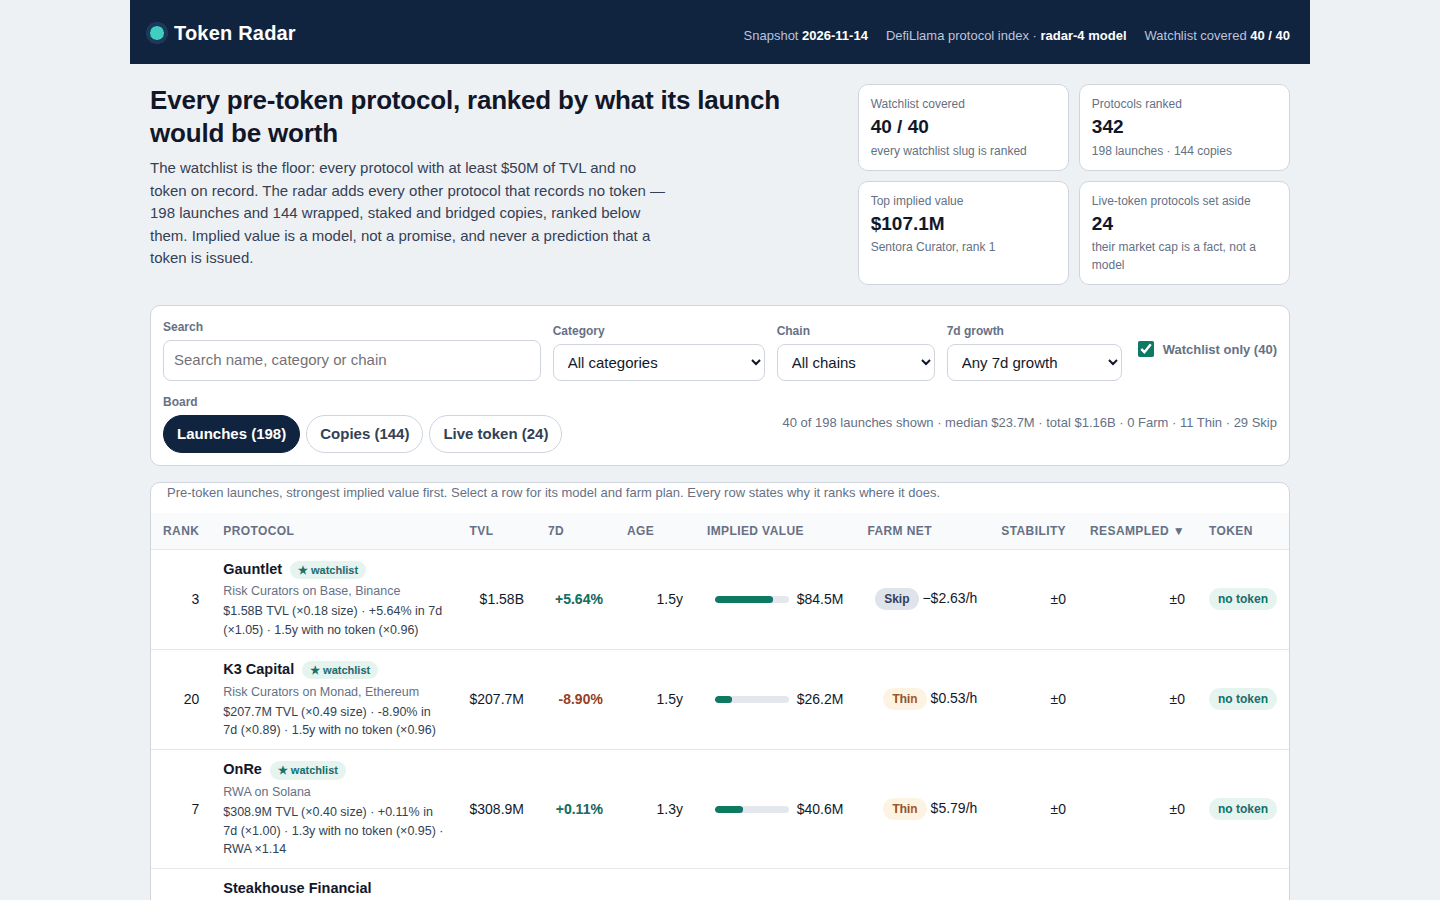
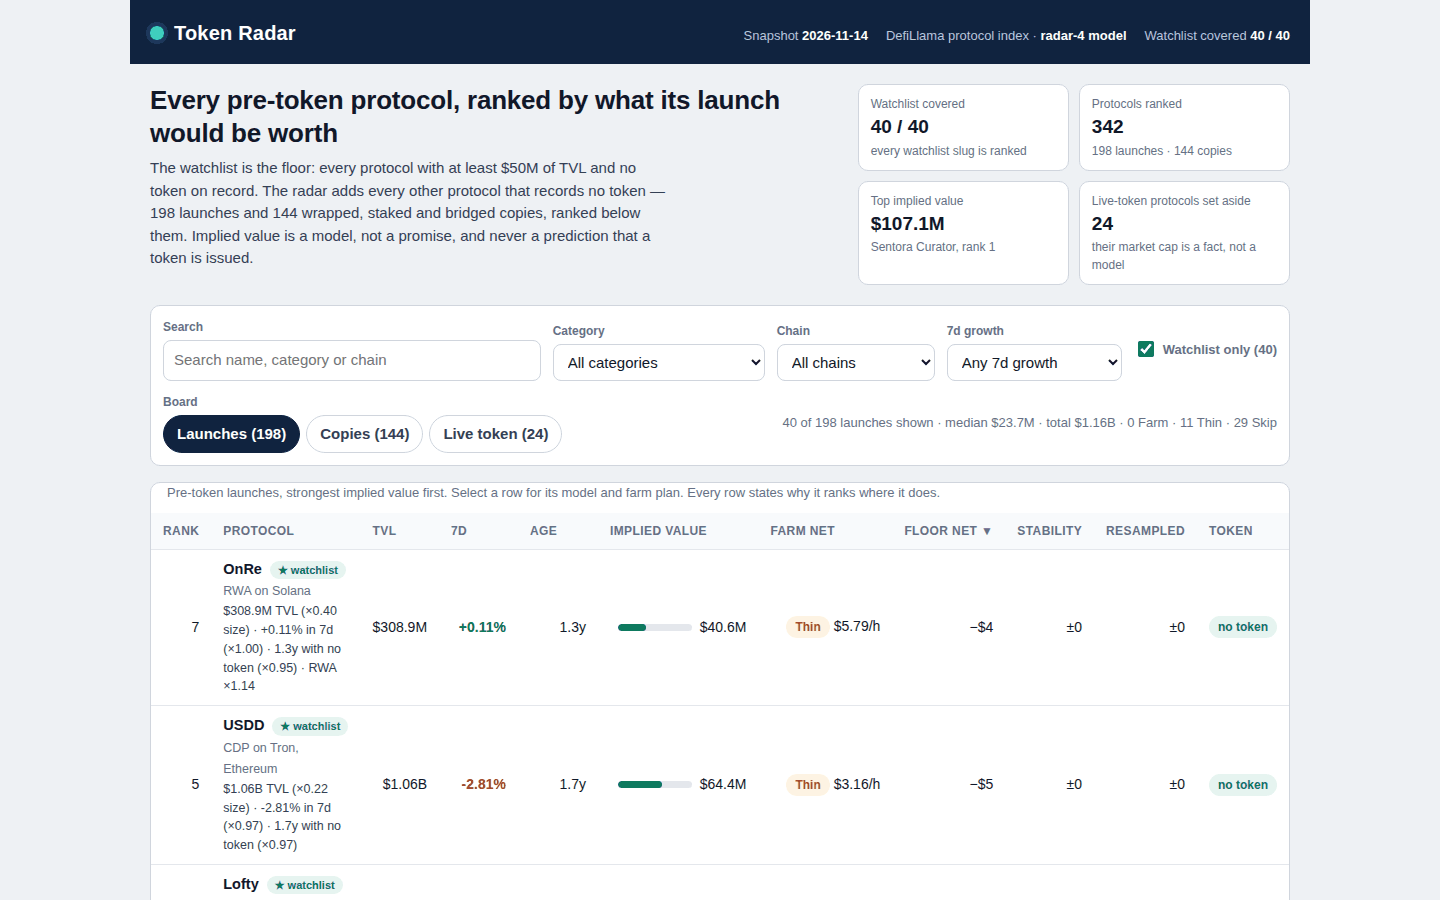
Quality round 9: sub-dollar farm gross prints to the cent, sortable Floor net column
- step 8 gross was 'about $0' on 142 rows (exact share $0.04-$0.48,
  median $0.15) and '$1' on 2 more (exact $0.54/$0.62, rounded up) —
  the same defect round 8 fixed for the net, one line down. Display-only
  fix, same >=$1 whole / <$1 cents rule as floor/loss; arithmetic
  untouched, 200 other rows' text provably identical
- board gains a sortable Floor net column (farm_net_floor_usd per row,
  #sort=floor): the round-8 floor test visible in the table, not only in
  step 8 prose; 26 Farm verdicts that still pay at the low end sort first
- screenshot 2 now 1440x1440 (steps 1-7 + start of 8 visible), screenshot 3
  now watchlist sorted by floor
- 0 rank/implied diffs vs 402c58d; verdicts 76/41/81; gate 7/7;
  determinism 3 runs; tsc strict 0 errors; dossier 421,728 B

diff --git a/dashboard/app.js b/dashboard/app.js
@@ -71,6 +71,15 @@
     if (v === null || v === undefined || !isFinite(v)) return 'n/a';
     return (v < 0 ? '−$' : '$') + Math.abs(v).toFixed(2) + '/h';
   }
+  // Farm net at the low end of the likely range (implied × 0.27, same gas),
+  // signed: +$21 for a farm that still pays there, −$35 for one that does
+  // not. A whole-dollar figure when it is at least a dollar, cents when it
+  // is not — the same rule step 8 uses, so no floor ever reads as "$0".
+  function fmtFloorUsd(v) {
+    if (v === null || v === undefined || !isFinite(v)) return '—';
+    var a = Math.abs(v);
+    return (v < 0 ? '−$' : '+$') + (a >= 1 ? Math.round(a).toLocaleString('en-US') : a.toFixed(2));
+  }
   // The model in one function: TVL, seven-day growth, age with no token and the
   // category factor — nothing else. Value grows with the square root of TVL: the
   // snapshot's own live protocols trade at a shrinking share of TVL as they grow.
@@ -180,6 +189,10 @@
     // ranked on — the biggest launches are the worst farms, so this order is
     // genuinely different from the implied-value order.
     farm: function (r) { return r.farm_per_hour_usd === undefined ? -Infinity : r.farm_per_hour_usd; },
+    // Floor net: the farm's net at the low end of the likely range, the
+    // round-8 floor test as a sortable column instead of a sentence buried in
+    // step 8 — the 26 Farm verdicts that still pay there sort to the top.
+    floor: function (r) { return r.farm_net_floor_usd === null || r.farm_net_floor_usd === undefined ? -Infinity : r.farm_net_floor_usd; },
     // Resampled rank: the row's own median rank move across the 1,000 bootstrap
     // resamples of the live set. Negated, so the default direction (largest
     // first) shows the steadiest ranks first — the per-row half of the
@@ -355,6 +368,7 @@
           el('span', { class: 'verdict v-' + (r.farm_verdict || 'Skip').toLowerCase(), text: r.farm_verdict || 'Skip' }),
           ' ' + fmtPerHour(r.farm_per_hour_usd)
         ),
+        el('td', { class: 'num', title: 'Farm net at the low end of the likely range (implied × 0.27, same gas): the verdict the floor test leaves standing', text: fmtFloorUsd(r.farm_net_floor_usd) }),
         el('td', { class: 'num', title: 'Rank moves at most this many places when the size exponent runs 0.45–0.55', text: '±' + move }),
         el('td', { class: 'num', title: 'Median rank move across 1,000 resamples of the live set', text: (r.rank_boot_med === null || r.rank_boot_med === undefined) ? '—' : '±' + r.rank_boot_med }),
         el('td', null, el('span', { class: 'status ' + r.tier, text: r.tier === 'copy' ? 'copy' : 'no token' }))
@@ -376,6 +390,7 @@
             sortHeader('age', 'Age'),
             sortHeader('implied', 'Implied value'),
             sortHeader('farm', 'Farm net'),
+            sortHeader('floor', 'Floor net'),
             sortHeader('stable', 'Stability'),
             sortHeader('boot', 'Resampled'),
             el('th', { scope: 'col', text: 'Token' })

diff --git a/lib/model.ts b/lib/model.ts
@@ -1155,14 +1155,24 @@ export function farmSteps(p: SnapshotProtocol, age: number | null, implied?: num
   // the plan — a reader who only reads the steps still sees whether the farm pays.
   if (implied !== undefined) {
     const e = farmEconomics(p, age, implied, intervalLo);
-    const gross = `$${e.gross_usd.toLocaleString('en-US')}`;
+    // The gross is a quantity with units, not a point to round away: 142 rows
+    // hold a real sub-dollar share ($0.04–$0.48, median $0.15) that the
+    // whole-dollar round prints as "$0" — the same defect round 8 fixed for
+    // the net, one line down. A whole-dollar figure when it is at least a
+    // dollar, cents when it is not — the same rule the floor and the loss
+    // already use, so no verdict ever reads as holding "$0". Display only:
+    // gross_usd stays the rounded value the net, the verdict and the floor
+    // are computed from, and Math.round of the exact gross equals it on
+    // every row at $1 or above, so no other row's text changes.
+    const grossExact = (e.capital / Math.max(p.tvl_usd, 1)) * implied;
+    const gross = grossExact >= 1 ? `$${Math.round(grossExact).toLocaleString('en-US')}` : `$${grossExact.toFixed(2)}`;
     const gasText = `$${e.gas_total}`;
     // Small implied values print in full ($500), not as "$0K": copies sit below $2M.
     const impliedText = implied >= 1_000_000 ? tvlText(implied) : `$${implied.toLocaleString('en-US')}`;
     // A whole-dollar net that rounds to $0 is not a $0 loss: the unrounded
     // gross sits cents below the gas bill, so print the loss to the cent.
     const lossText = e.net_usd === 0
-      ? `$${(e.gas_total - (e.capital / Math.max(p.tvl_usd, 1)) * implied).toFixed(2)}`
+      ? `$${(e.gas_total - grossExact).toFixed(2)}`
       : `$${Math.abs(e.net_usd).toLocaleString('en-US')}`;
     // The floor test, for Farm and Thin only: the same net at the low end of
     // the likely range. A whole-dollar figure when it is at least a dollar,

diff --git a/README.md b/README.md
@@ -145,7 +145,11 @@ says so in the step itself. The verdict rests on the point value, and the
 point is uncertain — the likely range runs from 0.27× to 3.64× of it — so step
 8 also tests the verdict at the range's low end: only 26 of the 76 Farm
 verdicts still pay there, and each Farm or Thin row says in its own step 8
-whether it holds or rests on the point value. The low end is the 25th
+whether it holds or rests on the point value. The floor is also a sortable
+column on the board, so the 26 Farm verdicts that still pay at the low end
+sort to the top. Dollar figures never round to $0: a sub-dollar share prints
+to the cent — 144 rows hold a real share of $0.04–$0.62, not $0 (142 of them
+printed as exactly "$0" before). The low end is the 25th
 percentile of the live scatter, not a worst case — one in four live protocols
 sits below it. Hands-on hours count setup (30 minutes), claiming
 (10), unwinding (15) and 10 minutes a week — never the hold, which is waiting,
@@ -174,7 +178,8 @@ runs write identical bytes.
   view; the page recomputes every row's implied value from the snapshot figures
   and checks it against board.json; watchlist rows wear a ★ badge, the count line
   shows the filtered set's median, total and farm-verdict counts, the Farm net
-  column sorts the board by dollars per hour of hands-on work, and the Live tab shows each live
+  column sorts the board by dollars per hour of hands-on work, the Floor net
+  column sorts it by the farm's net at the low end of the likely range, and the Live tab shows each live
   protocol's market-cap/TVL ratio).
 - `screenshots/` — 1-board.png, 2-detail.png, 3-filtered.png.
 - `LICENSE` — MIT.
